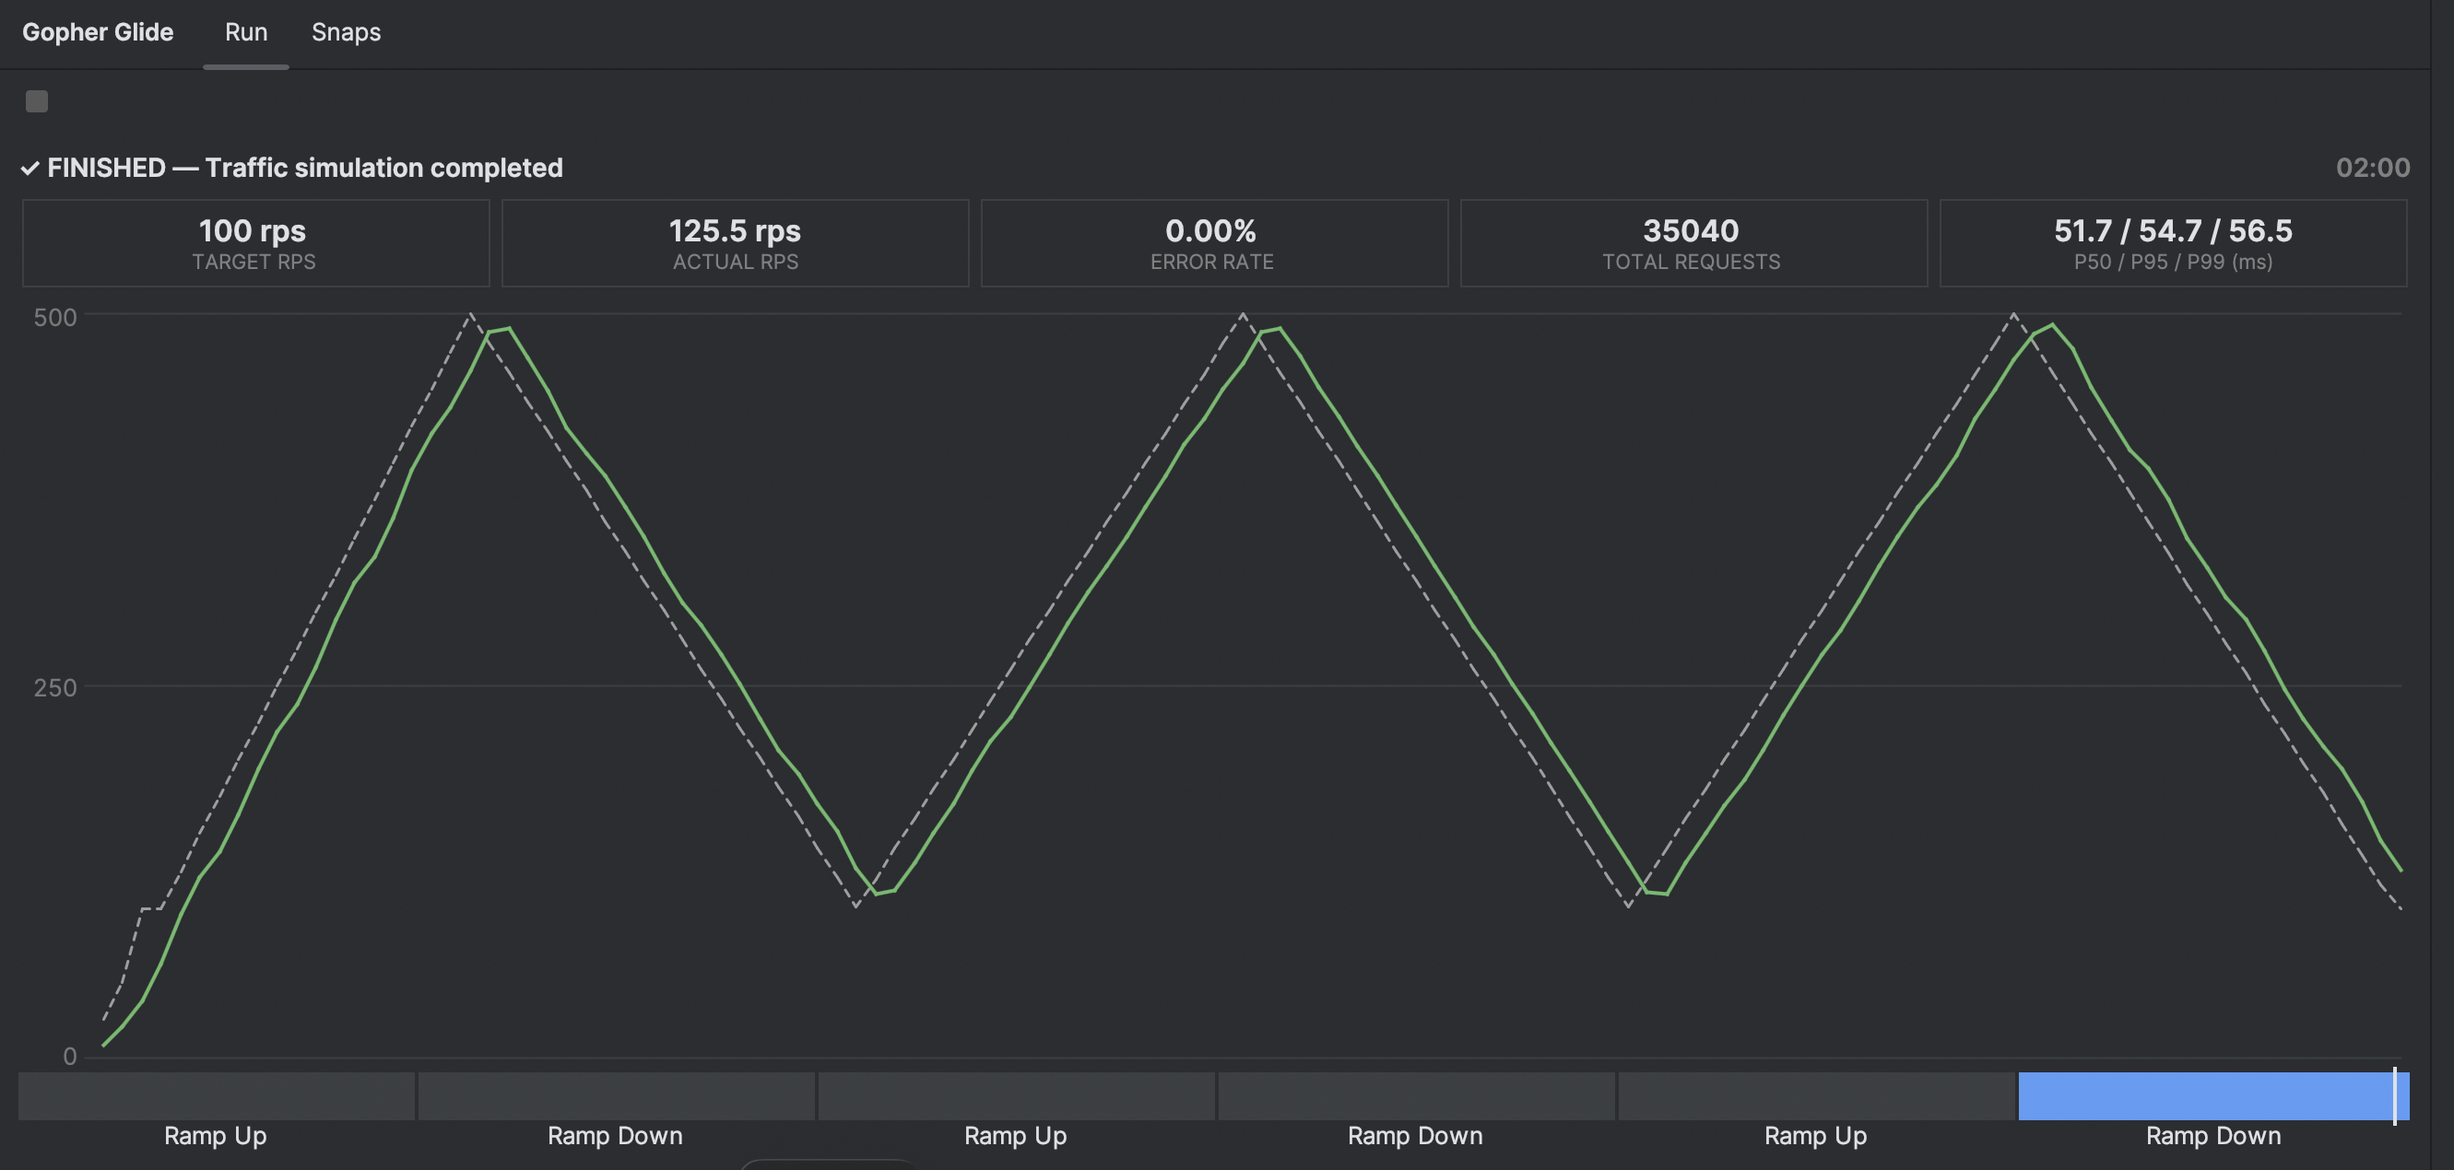
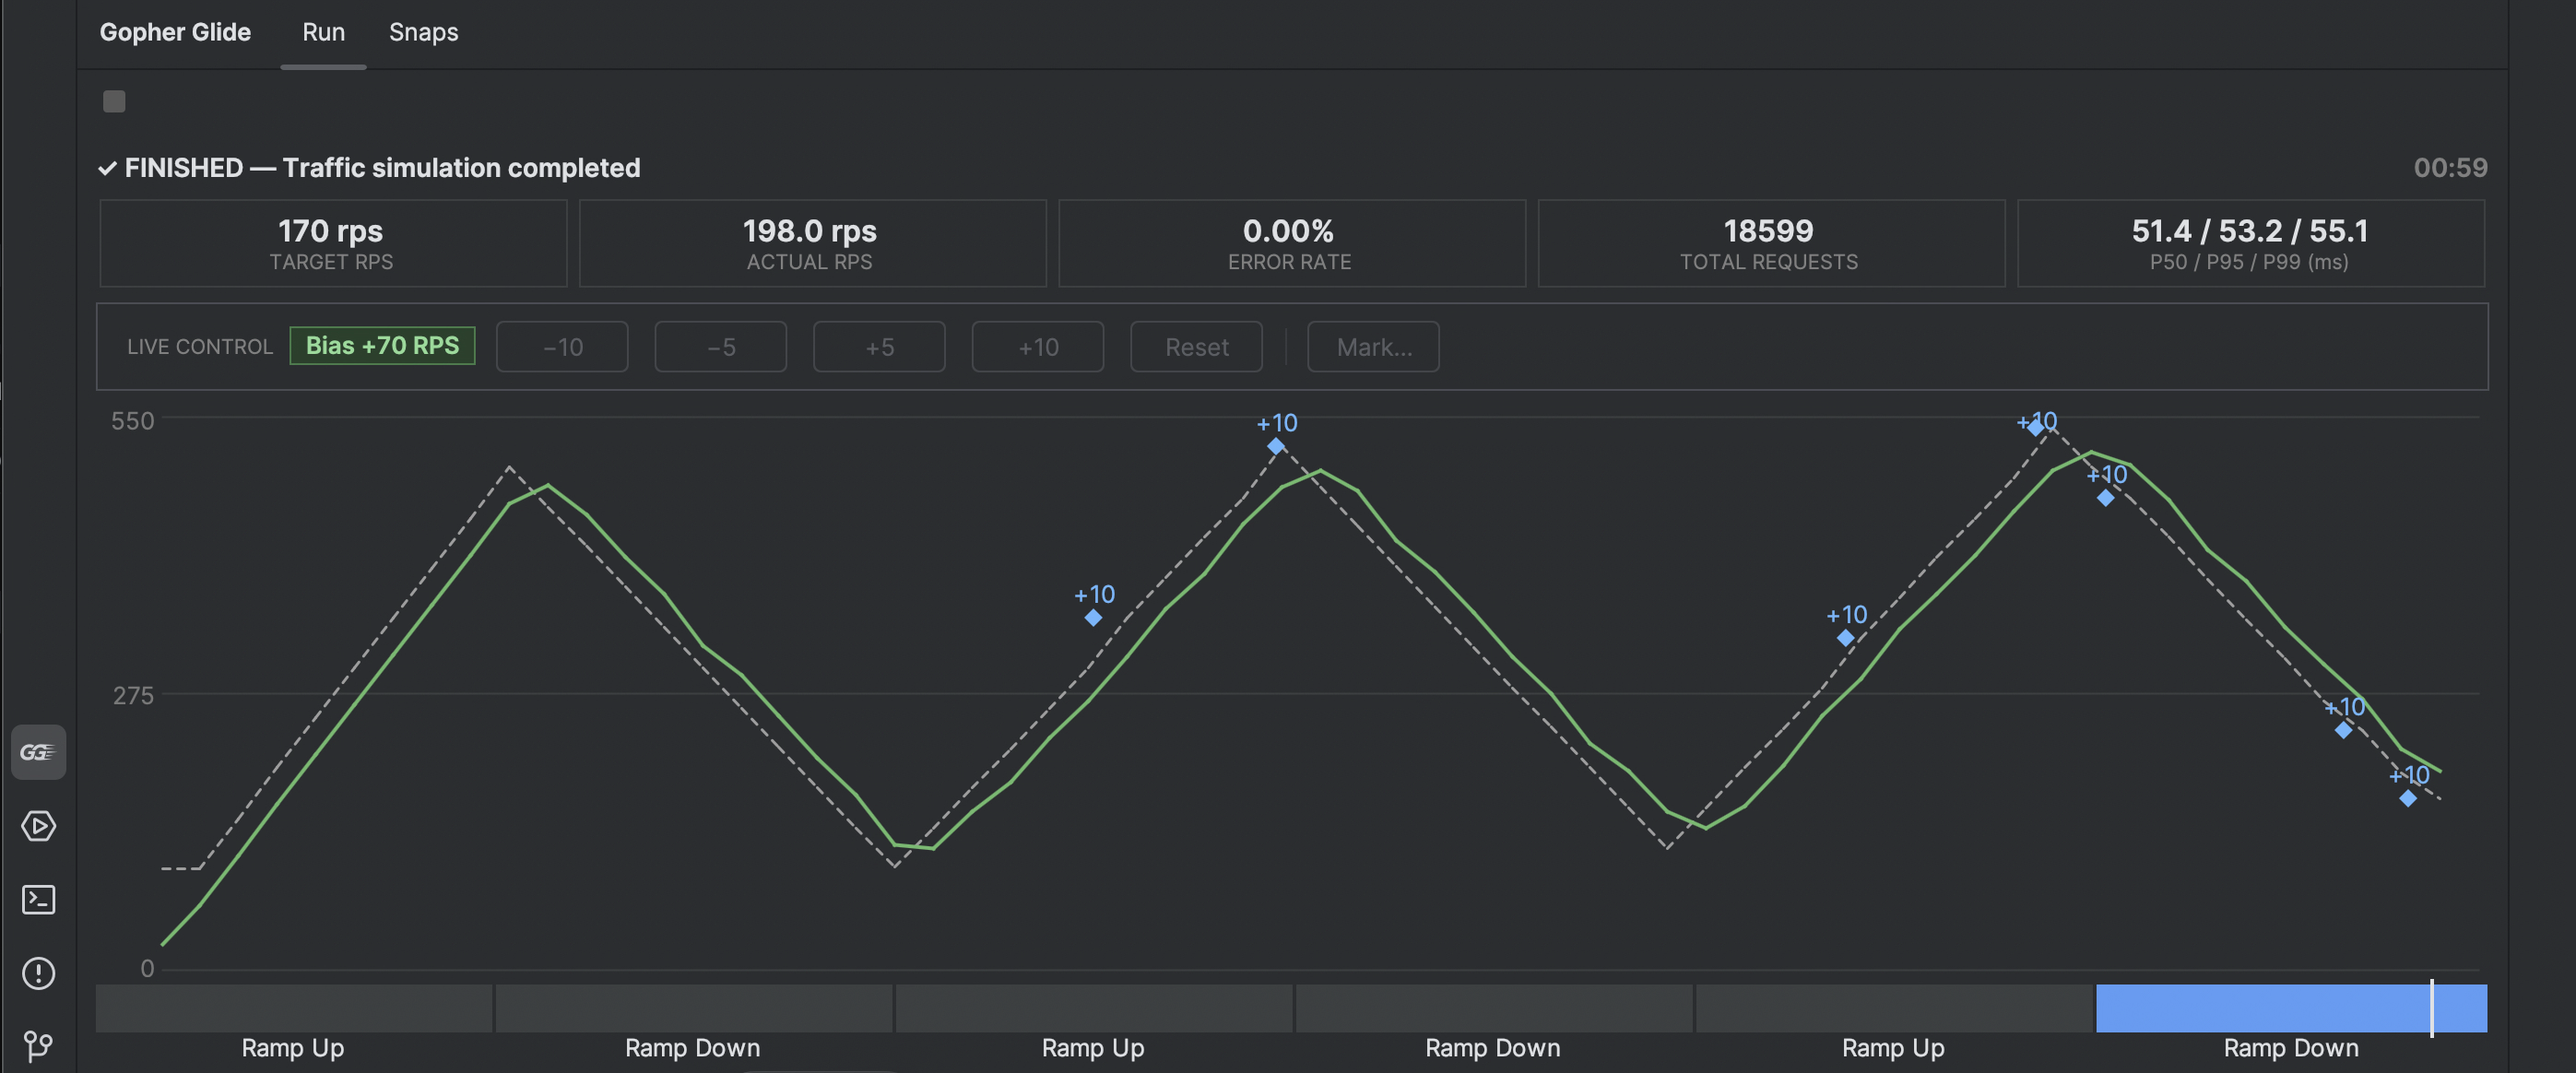
doc: update idea plugin info

diff --git a/website/src/content/docs/plugin.md b/website/src/content/docs/plugin.md
@@ -42,7 +42,14 @@ While a simulation runs, the **Run** tab of the **Gopher Glide** tool window upd
 - A **P50 / P95 / P99** latency card
 - A scaled **RPS chart**
 - A **stage timeline** — a horizontal progress bar with segment widths proportional to each stage's actual duration
-- A **Stop** action to cancel the run cleanly
+- A **Stop** action that ends the run cleanly — `gg` finishes writing the snapshot first. If it doesn't answer, the plugin interrupts it, and a second click forces it to end.
+
+**Live control** (JetBrains plugin 7.0+, `gg` v1.3.0+) adds a strip above the metric cards while a run is in progress:
+- **Bias** — **−10 / −5 / +5 / +10** change the target RPS without stopping the run; **Reset** returns to the planned rate. The badge shows the bias `gg` reports.
+- **Mark…** — drop a named marker at the current point of the run. A mark is stamped when you confirm its label.
+- Bias changes and marks are drawn on the RPS chart, and both are recorded in the snapshot.
+
+With an older `gg`, the strip is replaced by a short notice that names the installed version and offers to install or upgrade it. The run itself works as before.
 
 ![Native run dashboard showing live RPS chart, metric cards, and stage timeline](/assets/plugin-run-view.png)
 
@@ -52,8 +59,8 @@ The **Snaps** tab is a full native UI for managing Snapshots — list, view, dif
 
 Toolbar actions:
 - **Refresh** — reload the snapshot list from disk.
-- **View Detail** — inspect a snapshot. The detailed view provides an **Endpoint Breakdown** (Error Rate, P95, Payload Avg) and a dedicated **Inferred JSON Schema** viewer showing the precise `Type`, `Presence %`, and `Stability` of every field observed during the run.
-- **Compare (Diff)** — semantically diff two snapshots side-by-side (select exactly two rows). The diff UI automatically flags **Configuration mismatches** (e.g., if you diff a baseline run with a different config hash) and highlights specific schema regressions, such as a field's presence dropping from 100% to 19% under heavy load.
+- **View Detail** — inspect a snapshot. The detailed view provides an **Endpoint Breakdown** (Error Rate, P95, Payload Avg) and a dedicated **Inferred JSON Schema** viewer showing the precise `Type`, `Presence %`, and `Stability` of every field observed during the run. For runs recorded with `gg` v1.3.0+, a **Manual changes** section lists every mark and bias change in time order, with final bias, peak bias, how long a bias was in effect, and when the first change happened.
+- **Compare (Diff)** — semantically diff two snapshots side-by-side (select exactly two rows). The diff UI automatically flags **Configuration mismatches** (e.g., if you diff a baseline run with a different config hash) and highlights specific schema regressions, such as a field's presence dropping from 100% to 19% under heavy load. When either run had marks or bias changes made by hand, a one-line notice says so, since those runs may not be like for like.
 - **Assert...** — run `gg snap assert` between any two snapshots against configurable thresholds.
 - **Prune...** — clean up old snapshots by ID(s), tag, keep-last count, or age (e.g. `30d`) — with a dry-run preview by default.
 
@@ -71,6 +78,7 @@ Available under **Settings / Preferences → Tools → Gopher Glide**:
 - Set a **custom `gg` binary path** or **custom snapshots directory**.
 - **Run panel refresh interval** — controls the `--heartbeat-interval` passed to `gg`.
 - **Check for Updates** / **Install Gopher Glide** — one-click binary management with download progress.
+- **Check for gg updates on startup** — on by default; looks for a newer release at most once a day and shows one notification with **Update Now**, **Open Settings** and **Skip This Version**. It stays quiet when you're offline, already current, or use a custom binary path.
 - **Copy Diagnostics to Clipboard** — useful when filing a bug report.
 
 ### Compatibility
@@ -147,9 +155,9 @@ The **Snaps** tree view in the panel sidebar lets you:
 
 ## 🎛 Live Control Protocol
 
-Both plugins already talk to `gg` over its headless heartbeat stream. As of v1.3, that stream is two-way: `gg --headless` accepts commands over stdin — `bias`, `mark`, `stop` — and replies inline, without killing the process. See [Driving a Run Live](/live-control) to try it by hand and the [Live Control Protocol](/control-protocol) for the full spec. Live bias/mark/stop controls in the run dashboard are on the roadmap for both plugins, built directly on top of it.
+Both plugins already talk to `gg` over its headless heartbeat stream. As of v1.3, that stream is two-way: `gg --headless` accepts commands over stdin — `bias`, `mark`, `stop` — and replies inline, without killing the process. See [Driving a Run Live](/live-control) to try it by hand and the [Live Control Protocol](/control-protocol) for the full spec. The JetBrains plugin (7.0+) is built on it: the Run tab drives `bias`, `mark` and `stop` live, and a clean Stop keeps the snapshot. Live controls for the VS Code extension are on the roadmap.
 
-**A note for whoever wires that up (or builds their own tooling on the protocol):** it carries a generic signed `amount` for bias, not a fixed ±5 step — the widget is a UI decision, not a protocol one. Default to a **stepper (± buttons)** for parity with the TUI's `↑`/`↓` feel; a slider is a reasonable follow-up using the exact same command, just **debounce drag events** (throttle to a few per second) — the request rate only changes once a second, so one command per pixel of drag adds noise without adding precision.
+**A note for whoever wires up the VS Code extension (or builds their own tooling on the protocol):** it carries a generic signed `amount` for bias, not a fixed ±5 step — the widget is a UI decision, not a protocol one. Default to a **stepper (± buttons)** for parity with the TUI's `↑`/`↓` feel; a slider is a reasonable follow-up using the exact same command, just **debounce drag events** (throttle to a few per second) — the request rate only changes once a second, so one command per pixel of drag adds noise without adding precision.
 
 ---
 

diff --git a/website/src/content/docs/control-protocol.md b/website/src/content/docs/control-protocol.md
@@ -5,7 +5,7 @@ description: "Drive a running gg process from stdin — bias, mark, and stop a h
 
 Headless mode used to be a one-way radio: `gg --headless` gave you a live heartbeat stream, but the only way to touch it was `Ctrl+C`. The **Live Control Protocol (LCP)** turns that into a two-way conversation — send commands in over stdin, get replies interleaved with the heartbeats out.
 
-This is the foundation live bias/mark/stop controls in the [JetBrains and VS Code plugins](/plugin) will build on. It's also directly usable today, no IDE required — type commands into a headless run, or script them. **New to this? Start with [Driving a Run Live](/live-control)**, a hands-on guide with a copy-paste example, the multi-terminal and container recipes, and troubleshooting. This page is the reference.
+This is what the live bias/mark/stop controls in the [JetBrains plugin](/plugin#-native-run-dashboard) (7.0+) are built on; the VS Code extension is next. It's also directly usable,  no IDE required — type commands into a headless run, or script them. **New to this? Start with [Driving a Run Live](/live-control)**, a hands-on guide with a copy-paste example, the multi-terminal and container recipes, and troubleshooting. This page is the reference.
 
 > **Commands today:** `bias`, `mark`, `stop`. The protocol is versioned and capability-based, so if commands are ever added, existing binaries and plugins keep working (see [Versioning & capabilities](#versioning--capabilities) below).
 
@@ -145,7 +145,7 @@ A tool built against v1.3 that talks to a newer `gg` with extra capabilities kee
 
 ## 🖱 For plugin authors: button vs. slider
 
-The protocol carries a generic signed `amount` on purpose — the widget is a plugin decision, not a protocol one. Our recommendation for v1.3: build a **stepper (± buttons)**, matching the TUI's feel and giving users exact parity with what they already know from the terminal.
+The protocol carries a generic signed `amount` on purpose — the widget is a plugin decision, not a protocol one. Our recommendation: build a **stepper (± buttons)**, matching the TUI's feel and giving users exact parity with what they already know from the terminal. The JetBrains plugin does this, with −10 / −5 / +5 / +10 steps and a Reset.
 
 A slider is a perfectly reasonable follow-up using the exact same `bias` command — just **debounce drag events**. Every command is applied and none are dropped, but the request rate only changes once a second, so one command per pixel of drag adds noise (and a long reply stream) without adding precision. Emit on drag-end, or throttle to a few times a second.
 

diff --git a/website/src/content/docs/live-control.md b/website/src/content/docs/live-control.md
@@ -73,7 +73,8 @@ Pick the way that matches how you want to drive the run:
 | Send commands from **another terminal or tab** | Connect them with a [named pipe](#-from-a-second-terminal). |
 | Run a **timed** sequence | Use a [subshell with `sleep`s](#-timed-scripts), as in the quick start above. |
 | Drive a run in a **container** | Pass [`-i` to `docker run`](#-in-a-container). |
-| Drive it from a **plugin or your own tool** | Spawn `gg --headless` with a piped stdin and write one JSON line per command — see the [protocol reference](/control-protocol). |
+| Steer a run from the **JetBrains plugin** | Use the bias, Mark and Stop controls in the Run tab (plugin 7.0+). See [Native Run Dashboard](/plugin#-native-run-dashboard). |
+| Drive it from **your own tool** | Spawn `gg --headless` with a piped stdin and write one JSON line per command — see the [protocol reference](/control-protocol). |
 
 ### 📟 In the same terminal
 
